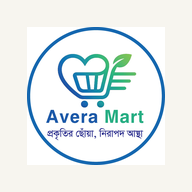
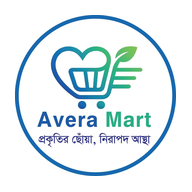
Add files via upload

Changed region(s): [[0.0625, 0.0625, 0.9375, 0.9375]]

diff --git a/app.js b/app.js
@@ -137,7 +137,9 @@ function saveUsers(obj){ CACHE.users = obj; docRef('users').set(obj); }
 
 /* ---------------- Helpers ---------------- */
 function money(n){ return '৳' + Number(n||0).toLocaleString('en-BD', {maximumFractionDigits:2}); }
-function todayStr(){ return new Date().toISOString().slice(0,10); }
+function todayStr(){ return new Intl.DateTimeFormat('en-CA',{timeZone:'Asia/Dhaka',year:'numeric',month:'2-digit',day:'2-digit'}).format(new Date()); }
+function pickedDate(id){ const v = (document.getElementById(id)||{}).value; return /^\d{4}-\d{2}-\d{2}$/.test(v||'') ? v : todayStr(); }
+function dateField(id, value){ return `<div class="form-field"><label>তারিখ (না বদলালে আজকের তারিখ)</label><input id="${id}" type="date" value="${value||todayStr()}"></div>`; }
 function genId(prefix, list){
   const nums = list.map(x => parseInt((x.id||'').replace(/\D/g,'')) || 0);
   const next = (nums.length? Math.max(...nums) : 0) + 1;
@@ -148,12 +150,20 @@ function esc(s){ return String(s==null?'':s).replace(/[&<>"']/g, c => ({'&':'&am
 /* An order can hold multiple product line items. Older orders saved before this
    feature only had a single productId/qty/unitPrice — this normalizes both shapes. */
 function r3(n){ return Math.round(Number(n||0)*1000)/1000; }
-function subUnit(unit){ return unit==='কেজি' ? 'গ্রাম' : (unit==='লিটার' ? 'মি.লি.' : null); }
-function fmtQty(qty, unit){
-  unit = unit || 'কেজি';
-  const sub = subUnit(unit);
-  if(sub && Number(qty) > 0 && Number(qty) < 1) return `${r3(Number(qty)*1000)} ${sub}`;
-  return `${r3(qty)} ${unit}`;
+function subInfo(p){
+  if(!p) return null;
+  if(Number(p.packSize)>0) return {label: p.packLabel || 'গ্রাম', factor: Number(p.packSize), pack:true};
+  if(p.unit==='কেজি') return {label:'গ্রাম', factor:1000};
+  if(p.unit==='লিটার') return {label:'মি.লি.', factor:1000};
+  return null;
+}
+function fmtQty(qty, p){
+  const unit = (p && p.unit) || 'কেজি';
+  const info = subInfo(p || {unit});
+  const q = Number(qty);
+  if(info && q > 0 && q < 1) return `${r3(q*info.factor)} ${info.label}`;
+  if(info && info.pack && q > 1 && Math.abs(q - Math.round(q)) > 0.0001) return `${r3(q)} ${unit} (${r3(q*info.factor)} ${info.label})`;
+  return `${r3(q)} ${unit}`;
 }
 function orderItems(o){
   if(o.items && o.items.length) return o.items;
@@ -499,6 +509,11 @@ function openProductForm(id){
         <div class="form-field"><label>বিক্রয়মূল্য (৳) — প্রতি এককে</label><input id="f_retail" type="number" value="${p?p.retail:''}"></div>
         <div class="form-field"><label>বর্তমান স্টক (এককে)</label><input id="f_stock" type="number" value="${p?p.stock:0}"></div>
         <div class="form-field"><label>ন্যূনতম স্টক সতর্কতা</label><input id="f_min" type="number" value="${p?p.minStock:5}"></div>
+        <div class="form-field"><label>প্যাকেট/পিসের ওজন বা পরিমাণ (ঐচ্ছিক)</label>
+          <div style="display:flex;gap:6px;"><input id="f_pack" type="number" step="any" placeholder="যেমন ৫০০" value="${p&&p.packSize?p.packSize:''}">
+          <select id="f_packlabel" style="width:110px;">${['গ্রাম','মি.লি.'].map(u=>`<option ${p&&p.packLabel===u?'selected':''}>${u}</option>`).join('')}</select></div>
+          <span class="muted-cell" style="font-size:11.5px;">৫০০ গ্রামের প্যাকেটকে "পিস/প্যাকেট" এককে রেখে এখানে ৫০০ গ্রাম লিখুন — তাহলে অর্ডারে ২৫০ গ্রাম লিখলেই ০.৫ প্যাকেট ধরে দাম ও স্টক হিসাব হবে।</span>
+        </div>
         <div class="form-field"><label>বিক্রির জন্য চালু?</label>
           <label style="display:flex;gap:8px;align-items:center;font-weight:400;"><input id="f_active" type="checkbox" ${p&&p.hidden?'':'checked'}> চালু (অর্ডারে দেখাবে)</label>
           <span class="muted-cell" style="font-size:11.5px;">এখনো কেনা হয়নি এমন পণ্যের টিক তুলে দিন — অর্ডারের সার্চে, লো-স্টক সতর্কতায় ও ইনভেন্টরি রিপোর্টে আসবে না। ক্রয় এন্ট্রি দিলে নিজে থেকেই চালু হয়ে যাবে।</span>
@@ -531,7 +546,9 @@ function saveProduct(id){
     stock: Number(document.getElementById('f_stock').value||0),
     minStock: Number(document.getElementById('f_min').value||0),
     priceTiers: document.getElementById('f_tiers').value.trim(),
-    hidden: !document.getElementById('f_active').checked
+    hidden: !document.getElementById('f_active').checked,
+    packSize: Number(document.getElementById('f_pack').value||0) || 0,
+    packLabel: document.getElementById('f_packlabel').value
   };
   if(id){
     const idx = products.findIndex(p=>p.id===id);
@@ -636,6 +653,7 @@ function openOrderForm(id){
     <div class="panel">
       <h3>${o?'অর্ডার সম্পাদনা':'নতুন অর্ডার'}</h3>
       <div class="form-grid">
+        ${dateField('o_date', o?o.date:'')}
         <div class="form-field"><label>কাস্টমার নাম</label><input id="o_name" value="${o?esc(o.customerName):''}"></div>
         <div class="form-field"><label>মোবাইল নম্বর</label><input id="o_phone" value="${o?esc(o.phone):''}"></div>
         <div class="form-field span-2"><label>ডেলিভারি ঠিকানা</label><input id="o_addr" value="${o?esc(o.address):''}"></div>
@@ -716,7 +734,8 @@ function updateCartQty(productId, qty){
   const it = ORDER_CART.find(x=>x.productId===productId);
   if(it){
     const v = Number(qty)||0;
-    it.qty = Math.max(0.001, it.sub ? v/1000 : v) || 1;
+    const f = (subInfo(CACHE.products.find(x=>x.id===productId))||{factor:1000}).factor;
+    it.qty = Math.max(0.001, it.sub ? v/f : v) || 1;
   }
   renderCart();
 }
@@ -769,10 +788,10 @@ function renderCart(){
     return `
       <tr>
         <td>${esc(p?p.name:'—')}</td>
-        <td class="cell-center"><input type="number" min="0.001" step="any" value="${it.sub ? r3(it.qty*1000) : r3(it.qty)}" style="width:75px;text-align:center;padding:5px;border:1px solid var(--border);border-radius:6px;" onchange="updateCartQty('${it.productId}', this.value)">
-          ${subUnit(p?.unit||'কেজি') ? `<select onchange="setCartUnitMode('${it.productId}', this.value==='sub')" style="padding:4px;border:1px solid var(--border);border-radius:6px;"><option value="base" ${it.sub?'':'selected'}>${esc(p?.unit||'কেজি')}</option><option value="sub" ${it.sub?'selected':''}>${subUnit(p?.unit||'কেজি')}</option></select>` : `<span class="muted-cell">${esc(p?.unit||'কেজি')}</span>`}</td>
+        <td class="cell-center"><input type="number" min="0.001" step="any" value="${it.sub ? r3(it.qty*(subInfo(p)||{factor:1000}).factor) : r3(it.qty)}" style="width:75px;text-align:center;padding:5px;border:1px solid var(--border);border-radius:6px;" onchange="updateCartQty('${it.productId}', this.value)">
+          ${subInfo(p) ? `<select onchange="setCartUnitMode('${it.productId}', this.value==='sub')" style="padding:4px;border:1px solid var(--border);border-radius:6px;"><option value="base" ${it.sub?'':'selected'}>${esc(p?.unit||'কেজি')}</option><option value="sub" ${it.sub?'selected':''}>${subInfo(p).label}</option></select>` : `<span class="muted-cell">${esc(p?.unit||'কেজি')}</span>`}</td>
         <td class="cell-center"><input type="number" min="0" value="${it.unitPrice}" style="width:80px;text-align:center;padding:5px;border:1px solid var(--border);border-radius:6px;" onchange="updateCartPrice('${it.productId}', this.value)"></td>
-        <td class="cell-num">${money(lineTotal)}</td>
+        <td class="cell-num">${money(lineTotal)}${(it.qty<1 && subInfo(p)) ? `<br><span class="muted-cell">${fmtQty(it.qty,p)}</span>` : ''}</td>
         <td class="cell-center"><button class="icon-btn danger" onclick="removeFromCart('${it.productId}')">🗑</button></td>
       </tr>`;
   }).join('');
@@ -797,6 +816,7 @@ function saveOrder(id){
   const discount = Number(document.getElementById('o_discount').value||0);
   const subtotal = ORDER_CART.reduce((s,it)=>s+Number(it.qty)*Number(it.unitPrice),0);
   const data = {
+    date: pickedDate('o_date'),
     customerName: document.getElementById('o_name').value.trim(),
     phone: document.getElementById('o_phone').value.trim(),
     address: document.getElementById('o_addr').value.trim(),
@@ -820,7 +840,6 @@ function saveOrder(id){
     orders[idx] = {...prev, ...data};
   } else {
     data.id = genId('ORD-', orders);
-    data.date = todayStr();
     data.status = 'Pending';
     orders.push(data);
   }
@@ -875,6 +894,7 @@ function openPurchaseForm(){
     <div class="panel">
       <h3>নতুন ক্রয় এন্ট্রি</h3>
       <div class="form-grid">
+        ${dateField('pu_date')}
         <div class="form-field"><label>সরবরাহকারী/মিল/চাতাল নাম</label><input id="pu_supplier"></div>
         <div class="form-field"><label>পণ্য</label>
           <select id="pu_product">${products.map(p=>`<option value="${p.id}">${esc(p.name)} (একক: ${esc(p.unit||'কেজি')})</option>`).join('')}</select>
@@ -927,7 +947,7 @@ function savePurchase(){
   if(!supplier || qty<=0){ alert('সরবরাহকারীর নাম ও পরিমাণ সঠিকভাবে দিন'); return; }
   if(freeQty>qty){ alert('ফ্রি পরিমাণ মোট পরিমাণের চেয়ে বেশি হতে পারে না'); return; }
   const data = {
-    id: genId('PO-', purchases), date: todayStr(), supplier, productId, qty, freeQty,
+    id: genId('PO-', purchases), date: pickedDate('pu_date'), supplier, productId, qty, freeQty,
     totalCost: Number(document.getElementById('pu_cost').value||0),
     paymentStatus: document.getElementById('pu_pay').value,
     paidAmount: Number(document.getElementById('pu_paid').value||0)
@@ -984,6 +1004,7 @@ function openExpenseForm(kind){
     <div class="panel">
       <h3>${inc?'কমিশন / আয় এন্ট্রি':'নতুন খরচ এন্ট্রি'}</h3>
       <div class="form-grid">
+        ${dateField('e_date')}
         <div class="form-field"><label>ক্যাটাগরি</label>
           <select id="e_cat">${cats.map(c=>`<option>${esc(c)}</option>`).join('')}</select>
         </div>
@@ -1002,7 +1023,7 @@ function openExpenseForm(kind){
 function saveExpense(kind){
   const expenses = CACHE.expenses.slice();
   const data = {
-    id: genId('EXP-', expenses), date: todayStr(),
+    id: genId('EXP-', expenses), date: pickedDate('e_date'),
     category: document.getElementById('e_cat').value,
     amount: Number(document.getElementById('e_amount').value||0),
     method: document.getElementById('e_method').value,
@@ -1141,6 +1162,7 @@ function loadReturnOrder(){
       <thead><tr><th>পণ্য</th><th>অর্ডারকৃত পরিমাণ</th><th>একক মূল্য</th><th>কত পরিমাণ ফেরত নেবেন</th></tr></thead>
       <tbody>${rows}</tbody>
     </table></div>
+    <div style="margin-top:12px;max-width:240px;">${dateField('ret_date')}</div>
     <div class="form-field" style="margin-top:12px;">
       <label>কারণ (ঐচ্ছিক)</label>
       <textarea id="ret_reason" rows="2" style="width:100%;padding:9px 11px;border:1px solid var(--border);border-radius:7px;background:var(--bg);"></textarea>
@@ -1168,7 +1190,7 @@ function submitReturn(orderId){
       const refundAmount = retQty * Number(it.unitPrice);
       newEntries.push({
         id: genId('RET-', returns.concat(newEntries)),
-        date: todayStr(), orderId: order.id, customerName: order.customerName,
+        date: pickedDate('ret_date'), orderId: order.id, customerName: order.customerName,
         productId: it.productId, qty: retQty, refundAmount, reason
       });
       it.qty = Number(it.qty) - retQty;
@@ -1384,6 +1406,7 @@ function openContributionForm(shareholderId){
   document.getElementById('modalHolder').innerHTML = `
     <div class="panel">
       <h3>${esc(sh.name)} — নতুন শেয়ার ক্রয়/জমা যোগ করুন</h3>
+      <div style="max-width:240px;margin-bottom:10px;">${dateField('c_date')}</div>
       <div class="form-field" style="max-width:220px;"><label>পরিমাণ (৳)</label><input id="c_amount" type="number" value="1000"></div>
       <div style="display:flex;gap:8px;margin-top:8px;">
         <button class="btn btn-outline btn-sm" onclick="document.getElementById('c_amount').value=1000">৳১,০০০</button>
@@ -1403,7 +1426,7 @@ function saveContribution(shareholderId){
   const idx = shareholders.findIndex(s=>s.id===shareholderId);
   shareholders[idx] = {...shareholders[idx], totalInvested: Number(shareholders[idx].totalInvested||0)+amount};
   const contributions = CACHE.contributions.slice();
-  contributions.push({ id: genId('CON-', contributions), date: todayStr(), shareholderId, amount });
+  contributions.push({ id: genId('CON-', contributions), date: pickedDate('c_date'), shareholderId, amount });
   saveCollection('shareholders', shareholders);
   saveCollection('contributions', contributions);
   renderShareholders();
@@ -1499,7 +1522,7 @@ function drawInvoice(){
     const p = CACHE.products.find(x=>x.id===it.productId);
     return `<tr>
       <td>${esc(p?p.name:'—')}</td>
-      <td class="cell-num">${fmtQty(it.qty, p?.unit)}</td><td class="cell-num">${money(it.unitPrice)}${p?.unit?`/${esc(p.unit)}`:''}</td><td class="cell-num">${money(Math.round(it.qty*it.unitPrice*100)/100)}</td>
+      <td class="cell-num">${fmtQty(it.qty, p)}</td><td class="cell-num">${money(it.unitPrice)}${p?.unit?`/${esc(p.unit)}`:''}</td><td class="cell-num">${money(Math.round(it.qty*it.unitPrice*100)/100)}</td>
     </tr>`;
   }).join('');
 
@@ -1511,7 +1534,7 @@ function drawInvoice(){
           <p class="tagline">প্রকৃতির ছোঁয়া, নিরাপদ আস্থা</p>
           <p style="font-size:11px;color:var(--text-muted);margin:2px 0 0;">${esc(CACHE.settings.businessAddress)}</p>
         </div>
-        <img src="assets/logo.jpg" alt="logo">
+        <img src="logo.jpg" alt="logo">
       </div>
       <div class="invoice-meta">
         <div>ইনভয়েস: ${o.id}<br>তারিখ: ${o.date}</div>
@@ -1584,7 +1607,7 @@ function shareWhatsapp(orderId){
   const items = orderItems(o);
   const lines = items.map(it=>{
     const p = CACHE.products.find(x=>x.id===it.productId);
-    return `${p?p.name:''} x ${fmtQty(it.qty, p?.unit)}`;
+    return `${p?p.name:''} x ${fmtQty(it.qty, p)}`;
   }).join('\n');
   const text = `Avera Mart ইনভয়েস ${o.id}\nকাস্টমার: ${o.customerName}\n${lines}\nসর্বমোট: ৳${o.total}\nধন্যবাদ প্রকৃতির ছোঁয়া, নিরাপদ আস্থা — Avera Mart থেকে কেনাকাটার জন্য।`;
   const phone = (o.phone||'').replace(/\D/g,'');
@@ -1753,7 +1776,7 @@ function printStockReport(onlyInStock){
   document.getElementById('printArea').innerHTML = `
     <div class="stock-print">
       <div class="sp-head">
-        <img src="assets/logo.jpg" alt="">
+        <img src="logo.jpg" alt="">
         <div><h3>Avera Mart — স্টক রিপোর্ট</h3>
         <div>${esc(CACHE.settings.businessAddress||'')}</div>
         <div>তারিখ: ${dateStr} · ${onlyInStock?'শুধু স্টকে থাকা পণ্য':'সব চালু পণ্য'} · মোট ${list.length}টি</div></div>

diff --git a/index.html b/index.html
@@ -4,8 +4,8 @@
 <meta charset="UTF-8">
 <meta name="viewport" content="width=device-width, initial-scale=1.0">
 <title>Avera Mart — বিজনেস ম্যানেজার</title>
-<link rel="icon" type="image/png" sizes="192x192" href="assets/icon-192.png">
-<link rel="apple-touch-icon" href="assets/icon-192.png">
+<link rel="icon" type="image/png" sizes="192x192" href="icon-192.png">
+<link rel="apple-touch-icon" href="icon-192.png">
 <link rel="manifest" href="manifest.json">
 <meta name="theme-color" content="#123C69">
 <link rel="preconnect" href="https://fonts.googleapis.com">
@@ -17,7 +17,7 @@
 <!-- ================= LOGIN SCREEN ================= -->
 <div id="loginScreen" class="login-screen">
   <div class="login-card">
-    <img src="assets/logo.jpg" alt="Avera Mart" class="login-logo">
+    <img src="logo.jpg" alt="Avera Mart" class="login-logo">
     <h1>Avera Mart</h1>
     <p class="tagline">প্রকৃতির ছোঁয়া, নিরাপদ আস্থা</p>
 
@@ -46,7 +46,7 @@
 
   <aside class="sidebar">
     <div class="sidebar-brand">
-      <img src="assets/logo.jpg" alt="logo">
+      <img src="logo.jpg" alt="logo">
       <div>
         <div class="brand-name">Avera Mart</div>
         <div class="brand-tag">প্রকৃতির ছোঁয়া, নিরাপদ আস্থা</div>

diff --git a/README.md b/README.md
@@ -56,7 +56,7 @@
 ## Netlify-তে ফ্রি ডিপ্লয় করার নিয়ম (সবচেয়ে সহজ পদ্ধতি)
 1. [netlify.com](https://www.netlify.com) এ গিয়ে ফ্রি অ্যাকাউন্ট খুলুন।
 2. লগইন করার পর ড্যাশবোর্ডে **"Add new site" → "Deploy manually"** এ ক্লিক করুন।
-3. এই ফোল্ডারের ভেতরের সবগুলো ফাইল (index.html, style.css, app.js, assets ফোল্ডার) সিলেক্ট করে সরাসরি ড্র্যাগ-অ্যান্ড-ড্রপ করুন।
+3. এই ফোল্ডারের ভেতরের সবগুলো ফাইল (index.html, style.css, app.js, logo.jpg, icon-192.png, icon-512.png ইত্যাদি সব ফাইল) সিলেক্ট করে সরাসরি ড্র্যাগ-অ্যান্ড-ড্রপ করুন।
 4. কয়েক সেকেন্ডেই একটি লিংক (যেমন `https://averamart.netlify.app`) পেয়ে যাবেন — এটাই আপনার লাইভ অ্যাপ।
 5. চাইলে Site settings থেকে সাইটের নাম পরিবর্তন করে নিজের পছন্দমতো সাবডোমেইন বসাতে পারবেন।
 
